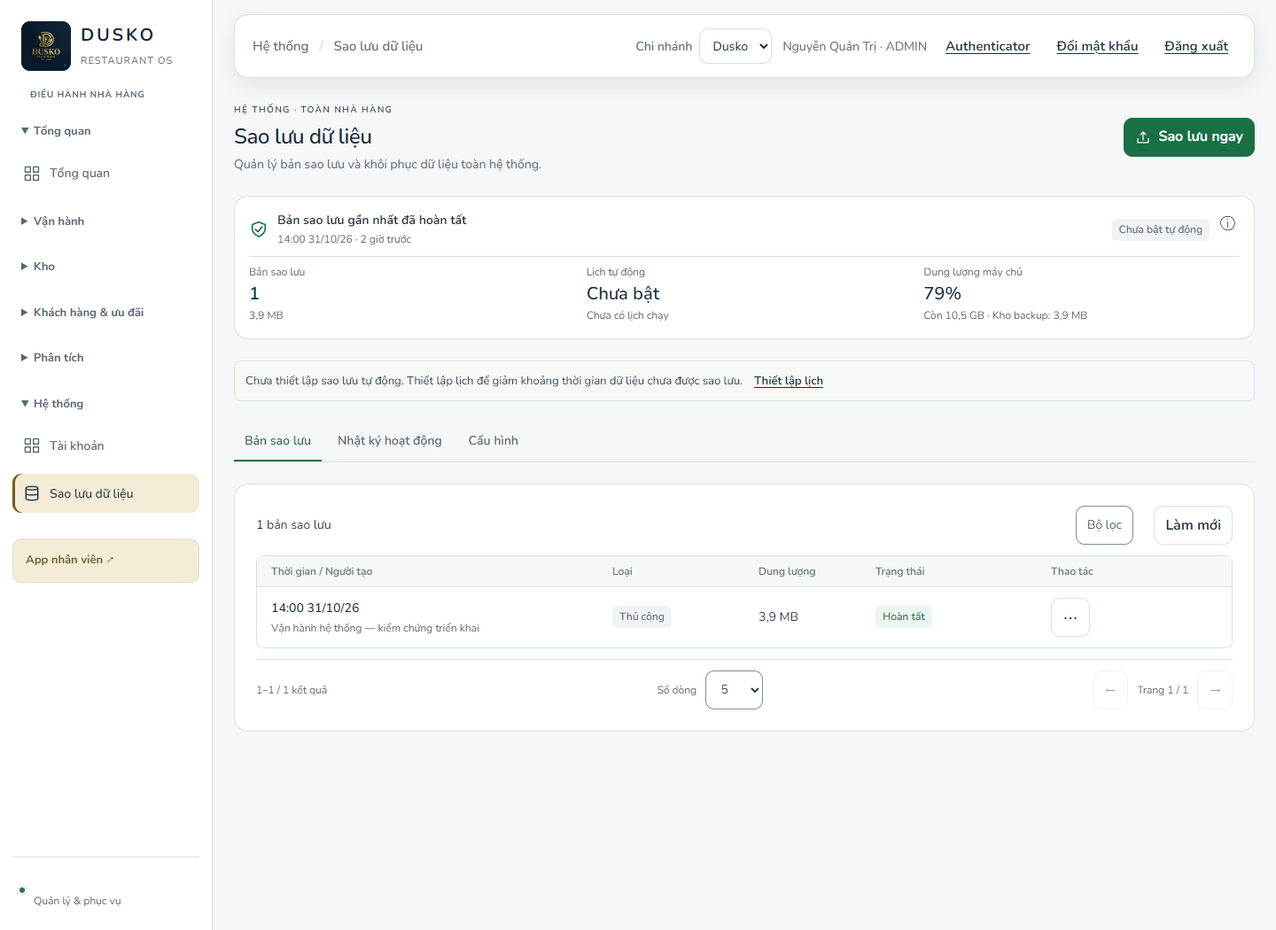
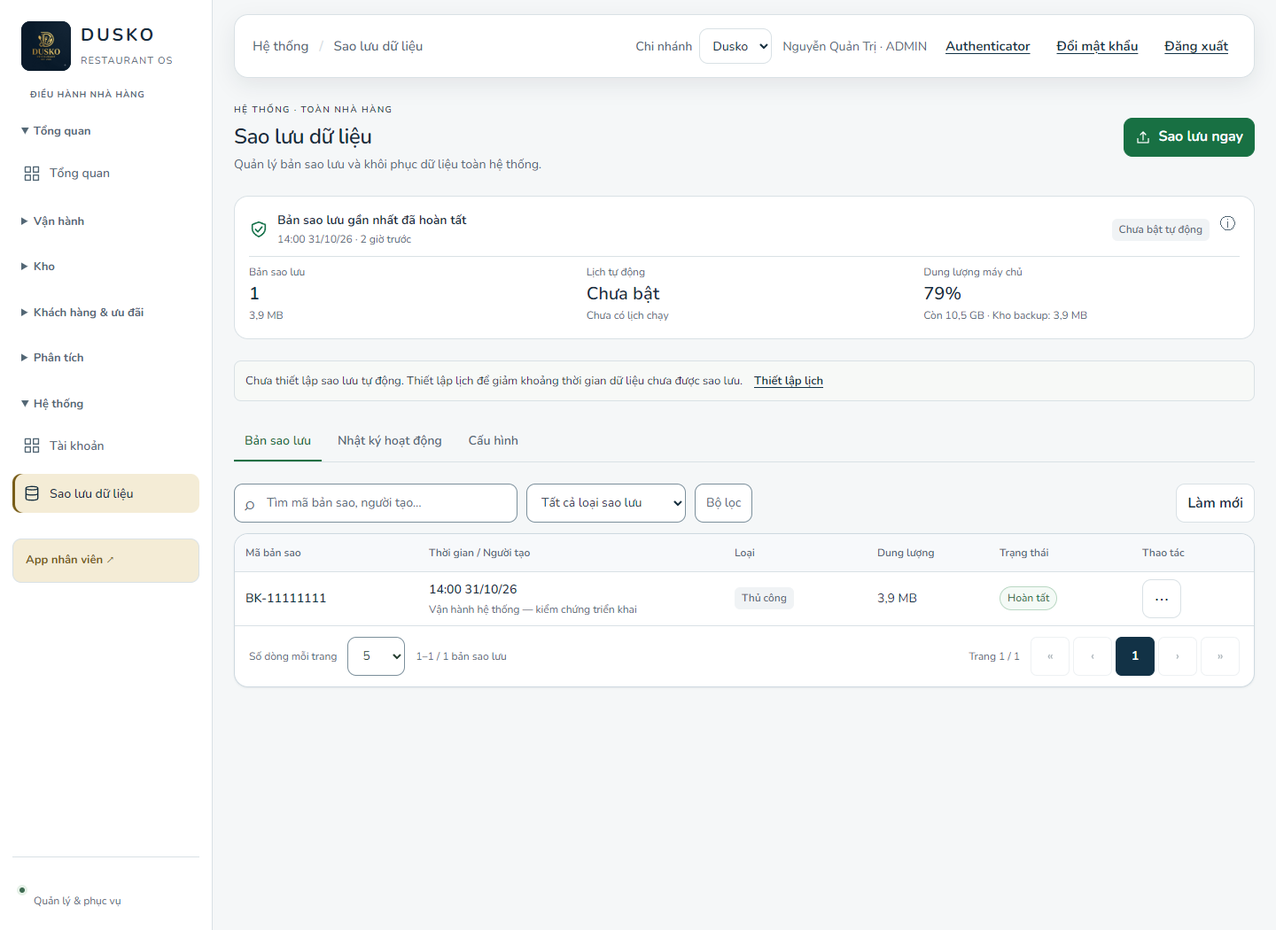
feat: style backup archives as a framed management table

diff --git a/src/backup-console.js b/src/backup-console.js
@@ -55,11 +55,13 @@ export function backupStatusHtml(data,view={}) {
  const warningHtml=item=>`<span>${e(item.text)}</span>${item.action?`<button class="btn text" data-backup="${item.action}" ${item.action==='schedule'&&locked?'disabled':''}>${e(item.label)}</button>`:''}`;
  const attention=warnings.length?`<section class="bk-attention" aria-label="Lưu ý vận hành"><ul>${warnings.length<=2?warnings.map(item=>`<li>${warningHtml(item)}</li>`).join(''):`<li>${warningHtml(warnings[0])}</li><li><details data-backup-detail="more-warnings"><summary>${warnings.length-1} lưu ý vận hành khác</summary><ul>${warnings.slice(1).map(item=>`<li>${warningHtml(item)}</li>`).join('')}</ul></details></li>`}</ul></section>`:'';
  const tabs=`<nav class="bk-tabs" aria-label="Mục quản trị sao lưu">${[['archives','Bản sao lưu'],['activity','Nhật ký hoạt động'],['settings','Cấu hình']].map(([id,label])=>`<button data-backup="tab-${id}" ${tab===id?'aria-current="page"':''}>${label}</button>`).join('')}</nav>`;
- const filters=`<details class="bk-filter-panel" data-backup-detail="filters"><summary>Bộ lọc${[view.query,view.type,view.from,view.to].filter(Boolean).length?' ('+[view.query,view.type,view.from,view.to].filter(Boolean).length+')':''}</summary><div class="bk-filters" role="search" aria-label="Lọc bản sao lưu"><label><span>Tìm bản sao</span><input type="search" data-backup-filter="query" value="${e(view.query||'')}" placeholder="Mã bản sao, người tạo…"></label><label><span>Loại</span><select data-backup-filter="type">${[['','Tất cả'],['MANUAL','Thủ công'],['AUTO','Tự động'],['SAFETY','Trước khôi phục']].map(([value,label])=>`<option value="${value}" ${view.type===value?'selected':''}>${label}</option>`).join('')}</select></label><label><span>Từ ngày (UTC+7)</span><input type="date" data-backup-filter="from" value="${e(view.from||'')}"></label><label><span>Đến ngày (UTC+7)</span><input type="date" data-backup-filter="to" value="${e(view.to||'')}"></label><button class="btn secondary" data-backup="clear-filters">Xóa bộ lọc</button></div></details>`;
- const table=archiveView.items.length?`<div class="table-scroll"><table><thead><tr><th>Thời gian / Người tạo</th><th>Loại</th><th>Dung lượng</th><th>Trạng thái</th><th>Thao tác</th></tr></thead><tbody>${archiveView.items.map(item=>`<tr><td data-label="Thời gian"><strong>${e(dateTime(item.createdAt))}</strong><small class="bk-archive-actor" title="${e(item.requestedByName||'Chưa ghi nhận')}">${e(item.requestedByName||'Chưa ghi nhận')}</small></td><td data-label="Loại">${badge(triggerLabel(item.trigger),item.trigger==='AUTO'?'info':'neutral')}</td><td data-label="Dung lượng">${e(backupSize(item.bytes))}</td><td data-label="Trạng thái">${badge('Hoàn tất','success')}</td><td data-label="Thao tác"><details class="bk-row-menu" data-backup-detail="archive-${e(item.id)}"><summary aria-label="Thao tác bản sao ${e(dateTime(item.createdAt))}" title="Thao tác"><span aria-hidden="true">⋯</span></summary><div class="bk-menu-items"><button data-backup="details" data-archive-id="${e(item.id)}">Thông tin bản sao</button>${action('Tải về','download',item.id,locked)}<div class="bk-menu-danger"><small>Thao tác cần xác nhận</small>${action('Khôi phục','restore',item.id,locked||!cap.canRestore||!item.canRestore,item.restoreReason||cap.restoreReason||'Ghi đè dữ liệu toàn hệ thống')}${action('Xóa','delete',item.id,locked||(data.totalBackups??backups.length)<=1,'Giữ lại ít nhất một bản hoàn chỉnh')}</div></div></details></td></tr>`).join('')}</tbody></table></div>`:`<div class="bk-empty"><h3>${backups.length?'Không có bản sao phù hợp':'Chưa có bản sao lưu'}</h3><p>${backups.length?'Thử đổi ngày, loại hoặc từ khóa tìm kiếm.':'Tạo bản đầu tiên bằng nút Sao lưu ngay.'}</p></div>`;
- const pagination=`<div class="bk-pagination" data-page="${archiveView.page}"><span role="status">${archiveView.total?`${(archiveView.page-1)*archiveView.pageSize+1}–${Math.min(archiveView.page*archiveView.pageSize,archiveView.total)}`:'0'} / ${archiveView.total} kết quả</span><label>Số dòng <select data-backup-filter="pageSize" aria-label="Số dòng mỗi trang">${[5,10,20].map(n=>`<option ${n===archiveView.pageSize?'selected':''}>${n}</option>`).join('')}</select></label><nav aria-label="Phân trang bản sao lưu"><button class="btn secondary" data-backup="previous-page" ${archiveView.page<=1?'disabled':''} aria-label="Trang trước">←</button><span>Trang ${archiveView.page} / ${archiveView.pages}</span><button class="btn secondary" data-backup="next-page" ${archiveView.page>=archiveView.pages?'disabled':''} aria-label="Trang sau">→</button></nav></div>`;
+ const filters=`<details class="bk-filter-panel" data-backup-detail="filters"><summary>Bộ lọc${view.from||view.to?' · Ngày':''}</summary><div class="bk-filters" role="search" aria-label="Lọc theo thời gian"><label><span>Từ ngày (UTC+7)</span><input type="date" data-backup-filter="from" value="${e(view.from||'')}"></label><label><span>Đến ngày (UTC+7)</span><input type="date" data-backup-filter="to" value="${e(view.to||'')}"></label><button class="btn secondary" data-backup="clear-filters">Xóa bộ lọc</button></div></details>`;
+ const toolbar=`<div class="bk-list-toolbar"><label class="bk-list-search"><span class="bk-sr-only">Tìm bản sao lưu</span><span aria-hidden="true">⌕</span><input type="search" data-backup-filter="query" value="${e(view.query||'')}" placeholder="Tìm mã bản sao, người tạo…"></label><label class="bk-list-type"><span class="bk-sr-only">Loại sao lưu</span><select data-backup-filter="type">${[['','Tất cả loại sao lưu'],['MANUAL','Thủ công'],['AUTO','Tự động'],['SAFETY','Trước khôi phục']].map(([value,label])=>`<option value="${value}" ${view.type===value?'selected':''}>${label}</option>`).join('')}</select></label>${filters}<button class="btn secondary bk-refresh" data-backup="refresh">Làm mới</button></div>`;
+ const table=archiveView.items.length?`<div class="table-scroll"><table><thead><tr><th>Mã bản sao</th><th>Thời gian / Người tạo</th><th>Loại</th><th>Dung lượng</th><th>Trạng thái</th><th>Thao tác</th></tr></thead><tbody>${archiveView.items.map(item=>`<tr><td data-label="Mã bản sao"><button class="bk-record-link" data-backup="details" data-archive-id="${e(item.id)}" title="${e(item.id)}">BK-${e((item.id?.match(/([a-f0-9]{8})-[a-f0-9-]{27}$/i)?.[1]||item.id?.slice(-8)||'—').toUpperCase())}</button></td><td data-label="Thời gian"><strong>${e(dateTime(item.createdAt))}</strong><small class="bk-archive-actor" title="${e(item.requestedByName||'Chưa ghi nhận')}">${e(item.requestedByName||'Chưa ghi nhận')}</small></td><td data-label="Loại">${badge(triggerLabel(item.trigger),item.trigger==='AUTO'?'info':'neutral')}</td><td data-label="Dung lượng">${e(backupSize(item.bytes))}</td><td data-label="Trạng thái">${badge('Hoàn tất','success')}</td><td data-label="Thao tác"><details class="bk-row-menu" data-backup-detail="archive-${e(item.id)}"><summary aria-label="Thao tác bản sao ${e(dateTime(item.createdAt))}" title="Thao tác"><span aria-hidden="true">⋯</span></summary><div class="bk-menu-items"><button data-backup="details" data-archive-id="${e(item.id)}">Thông tin bản sao</button>${action('Tải về','download',item.id,locked)}<div class="bk-menu-danger"><small>Thao tác cần xác nhận</small>${action('Khôi phục','restore',item.id,locked||!cap.canRestore||!item.canRestore,item.restoreReason||cap.restoreReason||'Ghi đè dữ liệu toàn hệ thống')}${action('Xóa','delete',item.id,locked||(data.totalBackups??backups.length)<=1,'Giữ lại ít nhất một bản hoàn chỉnh')}</div></div></details></td></tr>`).join('')}</tbody></table></div>`:`<div class="bk-empty"><h3>${backups.length?'Không có bản sao phù hợp':'Chưa có bản sao lưu'}</h3><p>${backups.length?'Thử đổi ngày, loại hoặc từ khóa tìm kiếm.':'Tạo bản đầu tiên bằng nút Sao lưu ngay.'}</p></div>`;
+ const pageNumbers=[...new Set([1,archiveView.page-1,archiveView.page,archiveView.page+1,archiveView.pages].filter(n=>n>=1&&n<=archiveView.pages))].sort((a,b)=>a-b);
+ const pagination=`<div class="bk-pagination" data-page="${archiveView.page}"><div class="bk-pagination-meta"><label>Số dòng mỗi trang <select data-backup-filter="pageSize" aria-label="Số dòng mỗi trang">${[5,10,20].map(n=>`<option ${n===archiveView.pageSize?'selected':''}>${n}</option>`).join('')}</select></label><span role="status">${archiveView.total?`${(archiveView.page-1)*archiveView.pageSize+1}–${Math.min(archiveView.page*archiveView.pageSize,archiveView.total)}`:'0'} / ${archiveView.total} bản sao lưu</span></div><nav aria-label="Phân trang bản sao lưu"><span class="bk-page-label">Trang ${archiveView.page} / ${archiveView.pages}</span><button class="btn secondary" data-backup="goto-page" data-page="1" ${archiveView.page<=1?'disabled':''} aria-label="Trang đầu">«</button><button class="btn secondary" data-backup="previous-page" ${archiveView.page<=1?'disabled':''} aria-label="Trang trước">‹</button>${pageNumbers.map((n,i)=>`${i&&n>pageNumbers[i-1]+1?'<span class="bk-page-gap">…</span>':''}<button class="btn secondary bk-page-number" data-backup="goto-page" data-page="${n}" ${n===archiveView.page?'aria-current="page"':''} aria-label="Trang ${n}">${n}</button>`).join('')}<button class="btn secondary" data-backup="next-page" ${archiveView.page>=archiveView.pages?'disabled':''} aria-label="Trang sau">›</button><button class="btn secondary" data-backup="goto-page" data-page="${archiveView.pages}" ${archiveView.page>=archiveView.pages?'disabled':''} aria-label="Trang cuối">»</button></nav></div>`;
  const detail=selected?`<section class="bk-archive-detail" aria-label="Thông tin bản sao"><div class="bk-section-head"><h3 tabindex="-1">Thông tin bản sao</h3><button class="btn text" data-backup="close-details">Đóng</button></div><dl><dt>Mã bản sao</dt><dd>${e(selected.id)}</dd><dt>Phạm vi</dt><dd>Toàn hệ thống · tất cả chi nhánh</dd><dt>Thành phần</dt><dd>${e(scopeText(selected))}</dd><dt>Nơi lưu</dt><dd>Kho riêng trên máy chủ</dd><dt>Khả năng khôi phục</dt><dd>${selected.canRestore?'Metadata tương thích môi trường hiện tại; khi khôi phục vẫn kiểm tra đầy đủ checksum.':e(selected.restoreReason||'Chưa xác định khả năng tương thích.')}</dd></dl><p>Khôi phục ghi đè dữ liệu hiện tại toàn hệ thống, tự tạo bản SAFETY và tạm dừng nghiệp vụ. SQL/Mongo được xử lý tuần tự; lỗi sau khi ghi có thể cần vận hành phục hồi thủ công.</p>${action('Khôi phục','restore',selected.id,locked||!cap.canRestore||!selected.canRestore,selected.restoreReason||cap.restoreReason||'Ghi đè dữ liệu hiện tại')}</section>`:'';
- const archives=`<section class="bk-card bk-archives" aria-label="Danh sách bản sao lưu"><div class="bk-list-toolbar"><span>${backups.length} bản sao lưu${data.truncated?' đã tải':''}</span><button class="btn secondary" data-backup="refresh">Làm mới</button></div>${filters}${data.truncated?'<p class="bk-footnote">Bộ lọc chỉ áp dụng cho các bản đã tải; kho còn bản chưa được liệt kê.</p>':''}${table}${pagination}${detail}${data.invalidCount?`<p class="bk-footnote">${e(data.invalidCount)} thư mục chưa hoàn tất hoặc thiếu manifest hợp lệ.</p>`:''}</section>`;
+ const archives=`<section class="bk-archives" aria-label="Danh sách bản sao lưu">${toolbar}${data.truncated?'<p class="bk-footnote">Bộ lọc chỉ áp dụng cho các bản đã tải; kho còn bản chưa được liệt kê.</p>':''}<div class="bk-table-frame">${table}${pagination}</div>${detail}${data.invalidCount?`<p class="bk-footnote">${e(data.invalidCount)} thư mục chưa hoàn tất hoặc thiếu manifest hợp lệ.</p>`:''}</section>`;
  const activity=`<section class="bk-card bk-activity"><div class="bk-section-head"><div><h2>Nhật ký hoạt động</h2><p>${jobs.length} tác vụ gần nhất · gồm lịch sử khôi phục</p></div><button class="btn secondary" data-backup="refresh">Làm mới</button></div>${jobs.length?`<ol>${jobs.map(job=>`<li><div><strong>${e(operations[job.operation||'BACKUP']||job.operation)}</strong><p>${e(job.requestedByName||`Tài khoản #${job.requestedBy}`)} · ${e(dateTime(job.requestedAt))}</p>${job.message?`<p class="${['FAILED','INTERRUPTED'].includes(job.state)?'bk-error':''}">${e(job.message)}</p>`:''}</div>${badge(backupStates[job.state]||job.state,['FAILED','INTERRUPTED'].includes(job.state)?'danger':job.state==='COMPLETED'?'success':'info')}</li>`).join('')}</ol>`:'<p class="bk-muted">Chưa ghi nhận hoạt động.</p>'}</section>`;
  const settings=`<section class="bk-card bk-settings"><div class="bk-section-head"><h2>Cấu hình sao lưu</h2><button class="btn text" data-backup="tab-archives">Về danh sách</button></div><section><div><h3>Lịch tự động</h3><p>${e(frequency)}${schedule.nextRunAt?' · '+e(dateTime(schedule.nextRunAt))+' (UTC+7)':''}</p></div><button class="btn secondary" data-backup="schedule" ${locked?'disabled':''}>Cấu hình lịch trình</button></section><section><div><h3>Nơi đang lưu</h3><p>${connected.length?e(connected.map(item=>item.name).join(', ')):'Chưa kết nối kho'}</p><p>Bản sao hiện lưu trên máy chủ; chưa có đồng bộ offsite.</p><details data-backup-detail="destinations"><summary>Khả năng kết nối khác</summary><p>Amazon S3, Google Drive, Dropbox, OneDrive: Chưa cấu hình; module chưa tích hợp gửi backup đến các dịch vụ này.</p></details></div></section><section><div><h3>Dung lượng</h3><p>${storage?`${e(backupSize(storage.usedBytes))} / ${e(backupSize(storage.totalBytes))} toàn máy chủ · còn ${e(backupSize(storage.freeBytes))}`:'chưa đọc được dung lượng'}</p><p>Riêng kho backup: ${storage?(storage.partial?'≥ ':'')+e(backupSize(storage.backupBytes)):'—'}. Không phải hạn mức riêng dành cho backup.</p><p>Ngưỡng trống tối thiểu trước khi chạy là 512 MiB; vượt ngưỡng không bảo đảm đủ chỗ cho lần sao lưu tiếp theo.</p></div></section><section><div><h3>Lưu giữ và phân quyền</h3><p>Chưa có tự động xóa bản cũ. Xóa thủ công phải giữ ít nhất một bản khác đã kiểm tra toàn vẹn.</p><p>Chỉ ADMIN chính đã xác thực MFA được quản trị. Thao tác dữ liệu yêu cầu mã Authenticator mới; khôi phục và xóa yêu cầu CONFIRM.</p></div></section><section><div><h3>Phạm vi và khôi phục</h3><p>Áp dụng toàn hệ thống, tất cả chi nhánh; lựa chọn chi nhánh bên ngoài không giới hạn phạm vi backup.</p><p>Gồm PostgreSQL schema public, MongoDB ứng dụng/AI và uploads local nếu sử dụng. Không gồm source code, .env, khóa vận hành hay ảnh cloud.</p><p>Không có snapshot đồng thời giữa các database. Khôi phục tạo SAFETY trước, ghi đè dữ liệu và tạm dừng nghiệp vụ; lỗi sau ghi giữ bảo trì để vận hành đối soát. Cần đăng nhập lại bằng tài khoản/MFA của bản nguồn sau restore.</p></div></section></section>`;
  return `<div class="backup-console">${header}${tab==='archives'?overview+attention:''}${!cap.canCreate?`<p class="bk-capability" role="status">${e(cap.reason||'Chức năng tạo backup chưa được bật trên máy chủ.')}</p>`:''}${running}${tabs}${tab==='archives'?archives:tab==='activity'?activity:settings}</div>`;

diff --git a/src/backup-status.css b/src/backup-status.css
@@ -15,20 +15,22 @@
 
 .bk-tabs{display:flex;gap:6px;border-bottom:1px solid var(--bk-line)}.bk-tabs button{font:inherit;font-size:14px;font-weight:600;border:0;border-bottom:2px solid transparent;background:transparent;color:var(--muted);padding:8px 12px;min-height:44px;cursor:pointer}.bk-tabs button[aria-current]{border-bottom-color:#187043;color:#187043}
 .bk-section-head{display:flex;justify-content:space-between;align-items:center;gap:12px;margin-bottom:16px}.bk-section-head h2,.bk-section-head h3{font-size:18px;font-weight:600;margin:0;line-height:1.5}.bk-section-head p{font-size:12px;color:var(--muted);margin:4px 0 0;line-height:1.6}
-.bk-archives{position:relative}.bk-list-toolbar{display:flex;justify-content:space-between;align-items:center;gap:12px;margin-bottom:12px;min-height:44px;font-size:14px}.bk-list-toolbar>.btn{margin-left:auto}.bk-list-toolbar>span{min-width:0;max-width:calc(100% - 220px);overflow:hidden;text-overflow:ellipsis;white-space:nowrap}.bk-filter-panel{margin:0}.bk-filter-panel>summary{position:absolute;top:24px;right:136px;font-size:14px;cursor:pointer;min-height:44px;padding:10px 12px;border:1px solid var(--line-strong);border-radius:var(--radius-control,10px);background:#fff;list-style:none;align-content:center;color:#52675b}.bk-filter-panel>summary::-webkit-details-marker{display:none}.bk-filter-panel .bk-filters{margin-bottom:12px}.bk-filters{display:grid;grid-template-columns:minmax(180px,280px) 120px 145px 145px auto;gap:12px;align-items:end;padding:14px;background:#f7f9f7;border:1px solid var(--bk-line);border-radius:8px;justify-content:start}
+.bk-sr-only{position:absolute;width:1px;height:1px;padding:0;margin:-1px;overflow:hidden;clip:rect(0,0,0,0);white-space:nowrap;border:0}
+.bk-archives{min-width:0}.bk-list-toolbar{position:relative;display:flex;align-items:center;gap:10px;flex-wrap:wrap;margin-bottom:12px;min-height:44px}.bk-list-search{position:relative;display:block;width:320px;max-width:100%;min-width:0}.bk-list-search>span[aria-hidden]{position:absolute;left:12px;top:9px;font-size:20px;color:var(--muted);pointer-events:none}.bk-list-search input,.bk-list-type select{width:100%;min-width:0;min-height:44px;height:44px;border:1px solid var(--line-strong);border-radius:var(--radius-control,10px);padding:10px 12px;background:var(--surface);color:var(--ink);font:inherit;font-size:14px;line-height:1.5}.bk-list-search input{padding-left:36px}.bk-list-type{width:180px;max-width:100%}.bk-list-toolbar>.bk-refresh{margin-left:auto}.bk-filter-panel{margin:0}.bk-filter-panel>summary{position:static;font-size:14px;cursor:pointer;min-height:44px;padding:10px 12px;border:1px solid var(--line-strong);border-radius:var(--radius-control,10px);background:#fff;list-style:none;align-content:center;color:var(--muted)}.bk-filter-panel>summary::-webkit-details-marker{display:none}.bk-filter-panel .bk-filters{position:absolute;left:0;top:calc(100% + 8px);z-index:16;width:min(560px,100%);box-shadow:0 6px 20px #19382b1a}.bk-filters{display:grid;grid-template-columns:1fr 1fr auto;gap:12px;align-items:end;padding:16px;background:var(--surface);border:1px solid var(--bk-line);border-radius:var(--radius-control,10px)}
 .bk-filters label{display:grid;gap:6px;font-size:12px;color:var(--muted);min-width:0}.bk-filters input,.bk-filters select,.bk-pagination select{height:44px;min-height:44px;border:1px solid var(--line-strong);border-radius:var(--radius-control,10px);padding:10px 12px;background:#fff;color:#263e30;min-width:0;width:100%;font-size:14px;line-height:1.5}.bk-filters .btn{justify-self:start}
-.bk-archives .table-scroll{overflow:visible;border:1px solid var(--bk-line);border-radius:8px}.backup-console .bk-archives table{width:100%;min-width:0;border-collapse:collapse;table-layout:fixed}.backup-console .bk-archives th{padding:8px 16px;text-transform:none;letter-spacing:0;font-size:12px;background:#f6f8f6;color:#607268;white-space:normal}.backup-console .bk-archives td{padding:12px 16px;font-size:14px;line-height:1.5;vertical-align:middle;border-bottom:1px solid var(--bk-line);white-space:normal}.bk-archives th:first-child{width:35%}.bk-archives th:nth-child(2){width:15%}.bk-archives th:nth-child(3){width:12%}.bk-archives th:nth-child(4){width:18%}.bk-archives th:last-child{width:20%}.bk-archives tbody tr:last-child td{border-bottom:0}.bk-archives td strong{font-size:14px;font-weight:600}.bk-archive-actor{display:block;font-size:12px;color:var(--muted);margin-top:3px;line-height:1.5;white-space:nowrap;overflow:hidden;text-overflow:ellipsis}
+.bk-table-frame{background:var(--surface);border:1px solid #ced9e0;border-radius:var(--radius-card,16px);box-shadow:0 1px 2px #142d3d12;min-width:0}.bk-archives .table-scroll{overflow:visible;border:0;border-radius:inherit}.backup-console .bk-archives table{width:100%;min-width:0;border-collapse:separate;border-spacing:0;table-layout:fixed}.backup-console .bk-archives th{padding:12px;text-transform:none;letter-spacing:0;font-size:12px;font-weight:600;background:#f7f9fb;color:var(--muted);white-space:normal;border-bottom:1px solid var(--bk-line)}.backup-console .bk-archives td{padding:8px 12px;font-size:14px;line-height:1.5;vertical-align:middle;border-bottom:1px solid var(--bk-line);white-space:normal}.bk-archives th:first-child{width:18%;border-top-left-radius:var(--radius-card,16px)}.bk-archives th:nth-child(2){width:30%}.bk-archives th:nth-child(3){width:14%}.bk-archives th:nth-child(4){width:12%}.bk-archives th:nth-child(5){width:14%}.bk-archives th:last-child{width:12%;border-top-right-radius:var(--radius-card,16px)}.bk-archives tbody tr:nth-child(even){background:#fafcfd}.bk-archives tbody tr:hover{background:#f2f7f8}.bk-archives tbody tr:last-child td{border-bottom:0}.bk-archives td strong{font-size:14px;font-weight:600}.bk-archive-actor{display:block;font-size:12px;color:var(--muted);margin-top:3px;line-height:1.5;white-space:nowrap;overflow:hidden;text-overflow:ellipsis}.bk-record-link{display:inline-flex;align-items:center;min-height:44px;padding:0;border:0;background:transparent;font:inherit;font-size:14px;font-weight:600;color:var(--primary-ink);cursor:pointer;text-align:left;max-width:100%;overflow-wrap:anywhere}.bk-record-link:hover{text-decoration:underline}.bk-archives td[data-label="Trạng thái"] .bk-badge{border:1px solid #b9d7c3;border-radius:999px;background:#f4faf6;font-weight:500}
 .bk-badge{display:inline-flex;align-items:center;white-space:nowrap;padding:4px 8px;border-radius:6px;background:#f0f3f5;color:#596a76;font-size:12px;font-weight:550;line-height:1.45}.bk-badge--success{background:#eaf6ef;color:var(--bk-green)}.bk-badge--danger{background:#fff0ee;color:var(--bk-red)}.bk-badge--info{background:#edf4ff;color:var(--bk-blue)}
 .bk-row-menu{position:relative;display:inline-block;max-width:100%;text-align:left}.bk-row-menu>summary{display:flex;align-items:center;justify-content:center;border:1px solid var(--bk-line);border-radius:var(--radius-control,10px);width:44px;height:44px;min-height:44px;padding:0;font-size:13px;cursor:pointer;list-style:none;background:#fff}.bk-row-menu>summary::-webkit-details-marker{display:none}.bk-row-menu>summary span{font-size:19px}.bk-menu-items{position:absolute;z-index:15;right:calc(100% + 8px);top:0;width:250px;max-width:calc(100vw - 64px);padding:8px;background:#fff;border:1px solid var(--bk-line);border-radius:10px;box-shadow:0 8px 26px #19382b24}.bk-menu-items button{width:100%;display:flex;align-items:center;gap:8px;min-height:44px;font:inherit;font-size:16px;line-height:1.4;border:0;border-radius:6px;background:#fff;text-align:left;cursor:pointer;padding:10px}.bk-menu-items button:hover:not(:disabled){background:#f4f7f4}.bk-menu-danger{border-top:1px solid var(--bk-line);padding-top:8px;margin-top:8px}.bk-menu-danger small{display:block;color:var(--muted);font-size:11px;padding:4px 10px}.bk-menu-danger button{color:var(--bk-red)}.bk-action svg{width:16px;height:16px}.bk-archive-detail>.bk-action{display:inline-flex;align-items:center;gap:8px;border:1px solid #e7b5b0;border-radius:7px;min-height:44px;background:#fff;color:var(--bk-red);padding:10px 14px;cursor:pointer}
-.bk-pagination{display:flex;align-items:center;justify-content:space-between;gap:12px;flex-wrap:wrap;border-top:1px solid var(--bk-line);padding-top:12px;margin-top:12px;color:var(--muted);font-size:12px}.bk-pagination label,.bk-pagination nav{display:flex;align-items:center;gap:10px}.bk-pagination select{width:65px}.bk-pagination nav button{min-width:36px;padding:8px}.bk-footnote{font-size:12px;color:#946a10;line-height:1.7;margin:10px 0}.bk-empty{text-align:center;padding:30px 12px;color:var(--muted)}.bk-empty h3{font-size:17px;margin:0 0 8px}.bk-empty p{font-size:13px;margin:0}
-
+.bk-pagination{display:flex;align-items:center;justify-content:space-between;gap:12px;flex-wrap:wrap;border-top:1px solid var(--bk-line);padding:12px 16px;margin:0;color:var(--muted);font-size:12px}.bk-pagination-meta,.bk-pagination label,.bk-pagination nav{display:flex;align-items:center;gap:12px}.bk-pagination-meta{flex-wrap:wrap}.bk-pagination select{width:65px}.bk-pagination nav{gap:4px;flex-wrap:wrap}.backup-console .bk-pagination nav button{width:44px;min-width:44px;padding:8px 0;border:1px solid transparent;border-radius:7px;background:transparent;color:var(--muted);font-size:14px}.backup-console .bk-pagination nav .bk-page-number{border-color:var(--bk-line);background:#fff;color:var(--ink)}.backup-console .bk-pagination nav .bk-page-number[aria-current]{background:var(--primary);border-color:var(--primary);color:var(--on-primary)}.bk-page-label{margin-right:8px}.bk-page-gap{padding:0 4px}.bk-footnote{font-size:12px;color:#946a10;line-height:1.7;margin:10px 0}.bk-empty{text-align:center;padding:30px 12px;color:var(--muted)}.bk-empty h3{font-size:17px;margin:0 0 8px}.bk-empty p{font-size:13px;margin:0}
 .bk-archive-detail{margin-top:20px;padding-top:20px;border-top:1px solid var(--bk-line);font-size:13px;line-height:1.7}.bk-archive-detail dl{display:grid;grid-template-columns:150px minmax(0,1fr);gap:10px 16px;margin:0}.bk-archive-detail dt{color:var(--muted)}.bk-archive-detail dd{margin:0;overflow-wrap:anywhere}.bk-archive-detail p{max-width:850px}
 .bk-settings>section{display:flex;justify-content:space-between;align-items:start;gap:24px;border-top:1px solid var(--bk-line);padding:20px 0}.bk-settings>section:last-child{padding-bottom:0}.bk-settings h3{font-size:18px;margin:0 0 8px}.bk-settings p{font-size:14px;color:var(--muted);line-height:1.8;margin:6px 0;max-width:850px}.bk-settings .btn{flex:none}.bk-settings summary{cursor:pointer;font-size:13px;margin-top:12px}
 .bk-activity ol{list-style:none;margin:0;padding:0}.bk-activity li{display:flex;justify-content:space-between;align-items:start;gap:20px;padding:16px 0;border-bottom:1px solid var(--bk-line)}.bk-activity li:last-child{border:0;padding-bottom:0}.bk-activity li>div{min-width:0}.bk-activity strong{font-size:14px}.bk-activity p{font-size:12px;color:var(--muted);margin:5px 0 0;line-height:1.7;overflow-wrap:anywhere}.bk-muted,.bk-capability{font-size:13px;color:var(--muted);line-height:1.7;margin:0}.bk-error{color:var(--bk-red)!important}
 .bk-running{border:1px solid #c7d8e9;border-left:3px solid #235a9b;border-radius:10px;padding:16px;background:#f8fbff}.bk-running-head{display:flex;justify-content:space-between;align-items:center;gap:12px;margin-bottom:12px}.bk-running-head>div{display:flex;align-items:center;gap:10px;flex-wrap:wrap}.bk-running-head strong{font-size:14px}.bk-running-head>b{font-size:24px;color:#235a9b}.bk-running small{display:block;font-size:12px;color:var(--muted);margin-top:10px;line-height:1.6}.bk-running p{font-size:13px;line-height:1.7}.bk-restore-result{padding:20px}.bk-restore-result h2{font-size:20px}
 @container(max-width:899px){.bk-filters{grid-template-columns:repeat(2,minmax(0,1fr))}.bk-filters label:first-child{grid-column:1/-1}.bk-summary-grid{gap:16px}.bk-summary-grid>div{padding-right:0}.bk-status-line{flex-wrap:wrap}.bk-status-line>.bk-badge{margin-left:0}}
 @container(max-width:619px){.bk-card,.bk-overview{padding:16px}.backup-console .bk-heading{align-items:start;flex-wrap:wrap}.backup-console .bk-heading h1{font-size:22px}.bk-summary-grid{grid-template-columns:1fr 1fr;gap:18px}.bk-summary-grid>div:nth-child(2){border:0;padding:0}.bk-summary-grid>div:last-child{grid-column:1/-1;border-top:1px solid var(--bk-line);padding-top:16px}.bk-summary-grid strong{font-size:20px}.bk-storage .bk-meter{max-width:none}.bk-attention li{align-items:baseline;flex-direction:row;gap:6px}.bk-tabs{gap:0}.bk-tabs button{font-size:13px;padding:10px 12px}.bk-filters{padding:12px;gap:10px}.bk-settings>section{align-items:start;flex-direction:column;gap:12px}.bk-archive-detail dl{grid-template-columns:1fr;gap:4px}.bk-archive-detail dd{margin-bottom:10px}.bk-section-head h2{font-size:18px}.bk-pagination>span{flex-basis:100%}
- .backup-console .bk-archives table,.bk-archives tbody{display:block}.bk-archives thead{display:none}.bk-archives tr{display:block;padding:12px 0;border-bottom:1px solid var(--bk-line)}.bk-archives tr:last-child{border:0}.backup-console .bk-archives td{display:flex;justify-content:space-between;align-items:center;gap:12px;padding:7px 12px;border:0;font-size:13px}.bk-archives td:before{content:attr(data-label);font-size:12px;color:var(--muted)}.bk-archives td:first-child{flex-wrap:wrap}.bk-archive-actor{flex-basis:100%;max-width:100%;text-align:right;margin:0}.bk-archives td strong{font-size:14px}.bk-archives td[data-label="Thao tác"]{justify-content:flex-end}.bk-archives td[data-label="Thao tác"]:before{display:none}.bk-row-menu[open]{width:100%}.bk-row-menu>summary{width:44px;height:44px;min-height:44px}.bk-menu-items button{min-height:44px}.backup-console .btn{min-height:44px}.bk-filters input,.bk-filters select,.bk-pagination select{height:46px;min-height:44px;font-size:16px}.bk-filter-panel>summary{top:16px;right:124px}.bk-menu-items{position:static;width:100%;max-width:none;margin-top:8px;box-shadow:none}
+}
+@container(max-width:759px){
+ .backup-console .bk-archives table,.bk-archives tbody{display:block}.bk-archives thead{display:none}.bk-archives tr{display:block;padding:12px 0;border-bottom:1px solid var(--bk-line)}.bk-archives tr:last-child{border:0}.backup-console .bk-archives td{display:flex;justify-content:space-between;align-items:center;gap:12px;padding:7px 12px;border:0;font-size:13px}.bk-archives td:before{content:attr(data-label);font-size:12px;color:var(--muted)}.bk-archives td[data-label="Thời gian"]{flex-wrap:wrap}.bk-archive-actor{flex-basis:100%;max-width:100%;text-align:right;margin:0}.bk-archives td strong{font-size:14px}.bk-archives td[data-label="Thao tác"]{justify-content:flex-end}.bk-archives td[data-label="Thao tác"]:before{display:none}.bk-row-menu[open]{width:100%}.bk-row-menu>summary{width:44px;height:44px;min-height:44px}.bk-menu-items button{min-height:44px}.backup-console .btn{min-height:44px}.bk-filters input,.bk-filters select,.bk-pagination select{height:46px;min-height:44px;font-size:16px}.bk-list-search{width:100%}.bk-list-type{flex:1;min-width:130px}.bk-list-search input,.bk-list-type select{font-size:16px;height:46px}.bk-pagination nav{justify-content:flex-end;max-width:100%}.bk-page-label{flex-basis:100%;text-align:right}.bk-pagination nav button[aria-label="Trang đầu"],.bk-pagination nav button[aria-label="Trang cuối"]{display:none}.bk-menu-items{position:static;width:100%;max-width:none;margin-top:8px;box-shadow:none}
 }
 @media(max-width:760px){
  .content:has(.backup-console){padding:18px 12px 28px}.backup-console .bk-heading h1{font-size:22px}

diff --git a/src/backup-admin.js b/src/backup-admin.js
@@ -11,6 +11,7 @@ export function mountBackupAdmin({root,request,canCreate=true,pollMs=4000,onAuth
  function renderInventory(){
   const focused=root.contains(document.activeElement)?document.activeElement:null;
   const filter=focused?.dataset?.backupFilter,action=focused?.dataset?.backup,archiveId=focused?.dataset?.archiveId;
+  const focusedPage=focused?.classList?.contains('bk-page-number')?focused.dataset.page:null;
   const selection=filter&&focused.type==='search'?[focused.selectionStart,focused.selectionEnd]:null;
   const scrolls=[...root.querySelectorAll('.table-scroll')].map(el=>el.scrollLeft);
   const expanded=[...root.querySelectorAll('details[data-backup-detail][open]')].map(el=>el.dataset.backupDetail);
@@ -21,7 +22,8 @@ export function mountBackupAdmin({root,request,canCreate=true,pollMs=4000,onAuth
   view.page=Number(root.querySelector('.bk-pagination')?.dataset.page)||1;
   root.querySelectorAll('.table-scroll').forEach((el,i)=>{el.scrollLeft=scrolls[i]||0;});
   const target=filter?root.querySelector(`[data-backup-filter="${filter}"]`):focusedDetail?[...root.querySelectorAll('details[data-backup-detail]')].find(el=>el.dataset.backupDetail===focusedDetail)?.querySelector('summary'):[...root.querySelectorAll('[data-backup]')].find(el=>el.dataset.backup===action&&(!archiveId||el.dataset.archiveId===archiveId));
-  target?.focus({preventScroll:true});if(selection&&target)target.setSelectionRange(...selection);
+  const pageTarget=focusedPage?[...root.querySelectorAll('.bk-page-number')].find(el=>el.dataset.page===focusedPage):null;
+  (pageTarget||target)?.focus({preventScroll:true});if(selection&&target)target.setSelectionRange(...selection);
  }
  const toast=sharedToast();
  const schedule=()=>{clearTimeout(timer);if(!disposed)timer=setTimeout(()=>void refresh(),pollMs);};
@@ -106,6 +108,7 @@ export function mountBackupAdmin({root,request,canCreate=true,pollMs=4000,onAuth
   else if(kind==='close-details'){view.detailId=null;renderInventory();}
   else if(kind==='clear-filters'){Object.assign(view,{query:'',type:'',from:'',to:'',page:1});renderInventory();}
   else if(kind==='previous-page'||kind==='next-page'){view.page+=kind==='next-page'?1:-1;renderInventory();root.querySelector(`[data-backup="${kind}"]`)?.focus({preventScroll:true});}
+  else if(kind==='goto-page'){const page=Number(button.dataset.page);if(Number.isInteger(page)&&page>=1){view.page=page;renderInventory();root.querySelector('.bk-page-number[aria-current]')?.focus({preventScroll:true});}}
   else if(kind==='relogin'){clearBackupMonitor();onAuthError();}
   else if(kind==='return'){clearBackupMonitor();monitor=null;void refresh();}
   else if(['create','restore','delete','download','schedule'].includes(kind))openOperation(kind,button.dataset.archiveId);

diff --git a/docs/BACKUP_ADMIN.md b/docs/BACKUP_ADMIN.md
@@ -53,3 +53,9 @@ Thông số mới ưu tiên kết quả đo trình duyệt của hai màn hình 
 | Khoảng cách | 8, 12, 16, 24px | Dùng token --space-* và nhịp chung |
 
 Script tests/browser/backup-menu-scale.mjs mở entry staff thật, vào menu bằng role WAITER và CASHIER với API giả lập, đo computed styles ở 1440/390px và xác nhận hai role dùng cùng kích thước. Kết quả tại docs/ui/backup-menu-sizing.json. tests/browser/backup-admin.mjs so sánh font/control/radius của backup với các giá trị đã đo, cùng các luồng MFA, lọc, menu, lịch và restore monitor. Chiều cao tổng quan/hàng bảng được phép tăng tự nhiên theo kích thước chung, không ép font nhỏ để giữ mốc cũ.
+
+## Bảng theo mẫu quản lý danh sách
+
+Tìm kiếm mã/người tạo và lọc loại sao lưu luôn hiển thị ngay phía trên khung bảng; ngày bắt đầu/kết thúc trong Bộ lọc mở rộng. Bảng và chân phân trang dùng chung khung viền mảnh, header nền nhạt, hàng xen kẽ/hover nhẹ và trạng thái dạng pill viền. Cột mã BK rút gọn UUID có thể bấm mở thông tin; tooltip và phần chi tiết giữ ID đầy đủ. Mã rút gọn không dùng làm định danh API.
+
+Phân trang có số trang, trang đầu/cuối và trước/sau, số dòng mỗi trang cùng tổng kết quả trong footer. Các nút số trang hoạt động trên tập metadata đã tải, vẫn có cảnh báo nếu inventory truncated. Không thêm bộ lọc trạng thái giả vì inventory chỉ liệt kê bản hoàn tất; tác vụ thất bại xem ở Nhật ký. Giữ chữ/control theo kích thước đã đo từ menu Phục vụ/Thu ngân và giữ nguyên xác nhận MFA/CONFIRM.
